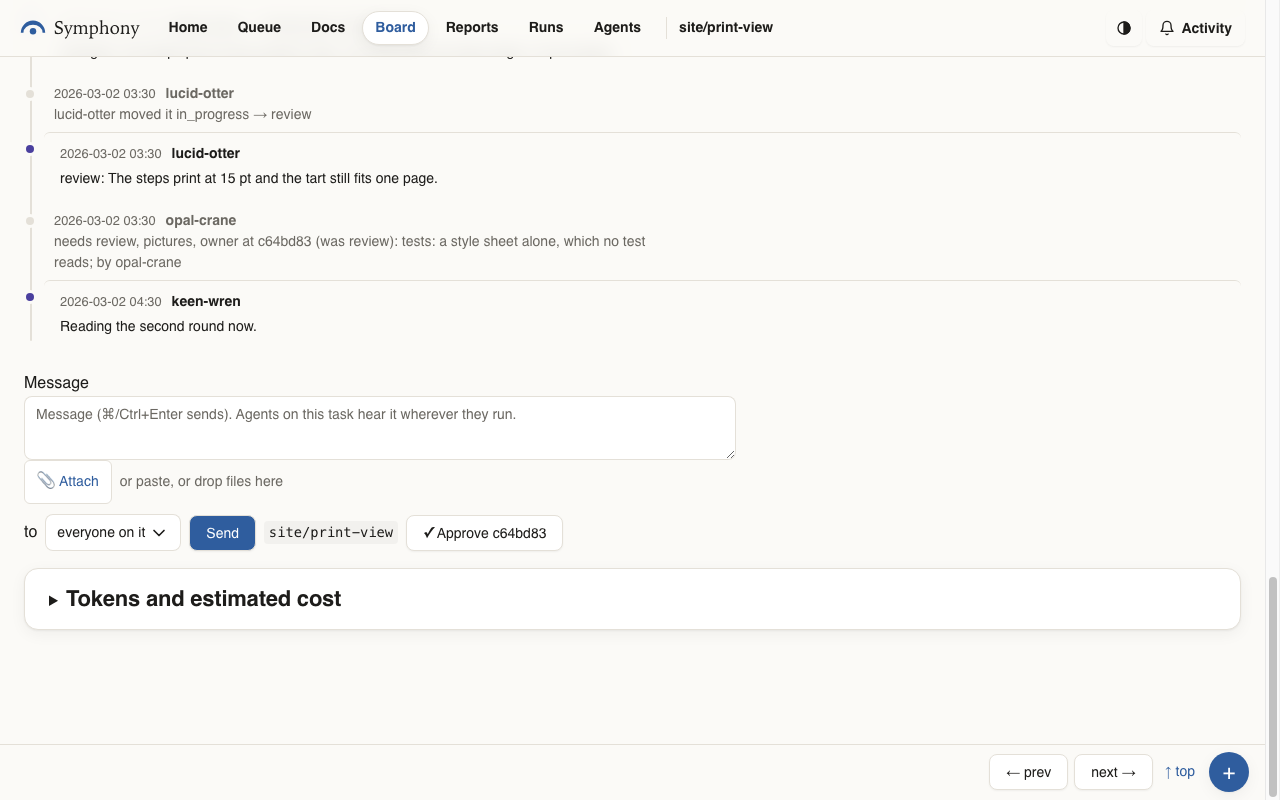
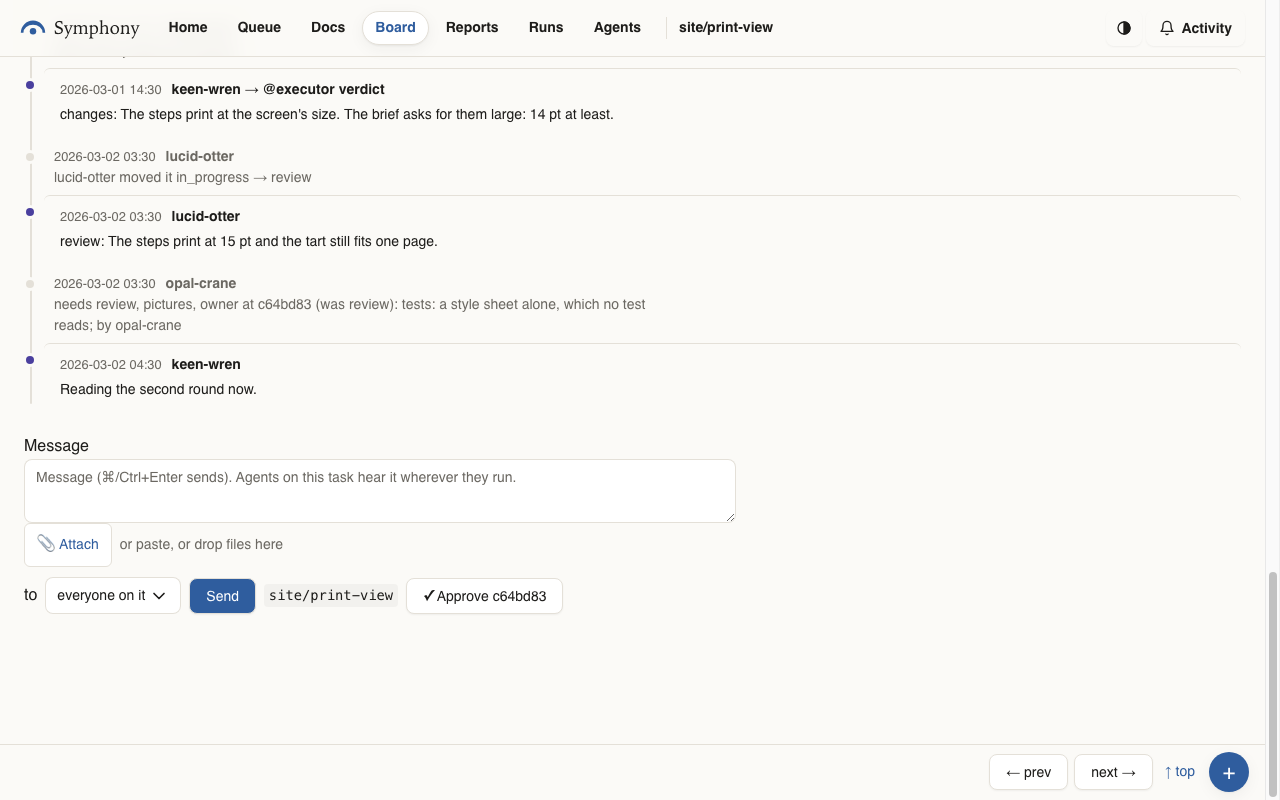
tests/main-red-product-pictures-task-tokens
Squashed from 80dfdc2d5a12db6527ff009c7d61115f02ad0b54 by pull request #38.

Changed region(s): [[0.0, 0.1875, 0.5, 0.7812], [0.0, 0.0938, 0.4688, 0.1562], [0.3438, 0.6562, 0.4375, 0.6875]]

diff --git a/docs/product/TASK.md b/docs/product/TASK.md
@@ -29,12 +29,11 @@ files.*).
 | Head | the slug, the title, the stage, who filed it, **Priority** and **Cancel task**, what it is part of or comes after, who holds each role, and the builds and tests running for it now |
 | **Gates** | what the task waits on, and a row for each thing it needs before it lands |
 | **Subtasks** | the smaller tasks under it, each with its stage |
-| Timeline | the stages it went through and how long each took, with its reviews, builds and tests |
+| Timeline | the stages it went through, how long each took and what it cost, with its reviews, builds and tests |
 | Brief | what the task asks for, as it was filed |
 | **Changes** | the files its branch changes |
 | **Attempts** | on a project that runs tasks on a provider of its own, each run of this one |
 | **Thread** | every message and move, oldest first, then the box to write in |
-| **Tokens and estimated cost** | closed until opened: what the task spent |
 
 ## The head
 
@@ -99,14 +98,15 @@ has not seen.
 
 ## Timeline
 
-**Timeline** opens with how long the task has taken, how many times it went to review and how
-often it came back from one (*2 d so far · 2 review rounds · 1 bounce*).
+**Timeline** opens with how long the task has taken, what it cost, how many times it went to
+review and how often it came back from one (*2 d so far $80.02 · 2 review rounds · 1 bounce*):
+[What the task cost](#what-the-task-cost).
 
 On a wide screen it is lanes over the same hours, with a line at now:
 
 | Lane | Draws |
 | --- | --- |
-| **Stage** | each stage the task was in, as long as it lasted |
+| **Stage** | each stage the task was in, as long as it lasted, and its time and cost where they fit |
 | **Orchestrator**, **Executor**, **Reviewer** | when each agent held the role; a review's verdict after its bar |
 | Builds and tests | each recorded run, striped while it is going on; absent on a task with none |
 | **Other / task messages** | a mark for each message from a sender that holds no one role; a role holder's message is marked on that role's lane |
@@ -155,11 +155,34 @@ a binary file is said as such. It says what is compared: **Branch from its merge
 still open, **Landing merge** for one that landed. A press on a file opens its lines. **Refresh
 files** reads the list again; it also follows the branch by itself.
 
-## Tokens and estimated cost
+## What the task cost
 
-Closed until opened. It gives the tokens the task and its subtasks took and what they would cost
-at list prices, in all, by role and by review round, with the day those prices were read. Every
-dollar on it is an estimate. A task that recorded none says *No tokens recorded for this task.*
+The cost has no part of its own: it follows the time, in dollars, as an estimate of what the
+tokens the task and its subtasks took would cost at the API's list prices, never money spent.
+
+- **On the board**, the task's card says it on the time's line: *Done $80.02 · 1 h*.
+- **The timeline's first line** says it after the task's time: *1 d 3 h in all $80.02 · 6 review
+  rounds · 1 bounce*. Pointed at, tapped or focused, it says the rest: the day the prices were
+  read, the cost by role (executor, reviewer, reserved) and by kind (input, cache write, cache
+  read, output), and the tokens and calls. Wide, those words take the line under the lanes; on a
+  phone they stand under the totals, and the rounds and bounces take a second line.
+- **Each stage stretch** says its own after its time, as much as its label has room for:
+  *in progress 3 h 14 m $30.75*, else *3 h 14 m $30.75*, else the time alone. Its words always say
+  it: whose calls it carries, by role, each with its cost, when they ran (first to last) and how
+  many. On a phone each stage row ends with its time and its cost.
+
+A stretch carries the work done for it, never a share of its hours: an in-progress stretch its
+round's executor and what was spent while the task was reserved, a review its reviewer and, where
+no in-progress stretch follows it in its round, the executor's fixes. Ready, blocked and done
+carry nothing. Of two in-progress stretches in one round, a block between them, the last carries
+the round's executor and the words of both say so. Every cost is on exactly one stretch, so the
+stretches add up to the total, and none is split: one whose calls ran past the stretch's edge
+says when they ran. A subtask's cost is on the in-progress or review stretch its first call fell
+in, named for the subtask.
+
+A cost some of whose tokens had no price is followed by **+** (*$1.23+*), and one none of whose
+had says **unpriced**; the total's words name the models. A task that recorded no tokens shows
+no cost anywhere: its lines say only the time.
 
 ## A task in a workflow of the project's own
 
